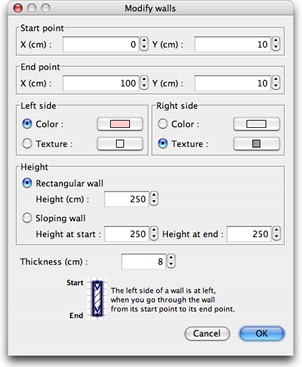
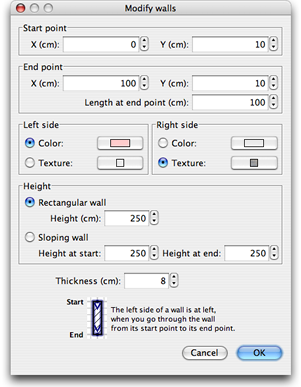
Updated wall dialog

Changed region(s): [[0.0, 0.0, 0.9867, 0.9891]]

diff --git a/SweetHome3D/src/com/eteks/sweethome3d/swing/resources/help/fr/editingWalls.html b/SweetHome3D/src/com/eteks/sweethome3d/swing/resources/help/fr/editingWalls.html
@@ -86,7 +86,7 @@
         <p>Un mur peut &ecirc;tre aussi modifi&eacute;  gr&acirc;ce &agrave; son panneau, en double-cliquant sur ce mur
           dans le plan du logement, ou en choisissant <i>Plan
           &gt; Modifier les murs...</i> apr&egrave;s l'avoir s&eacute;lectionn&eacute;.</p>
-        <p align="center"><img src="images/editingWalls.png" width="323" height="369"></p>
+        <p align="center"><img src="images/editingWalls.png" width="326" height="389"></p>
         <p>Dans le panneau du mur, vous pouvez modifier les coordonn&eacute;es de ses points de d&eacute;part et de fin,
           les couleurs ou les textures de ses c&ocirc;t&eacute;s gauche et droit, son &eacute;paisseur et sa hauteur.<br>
           Si c'est un mur inclin&eacute; d'un sous-pente, choisissez des hauteurs diff&eacute;rentes &agrave; ses points

diff --git a/SweetHome3D/src/com/eteks/sweethome3d/swing/resources/help/en/editingWalls.html b/SweetHome3D/src/com/eteks/sweethome3d/swing/resources/help/en/editingWalls.html
@@ -83,7 +83,7 @@
         <p>A wall may also be  edited thanks to its pane, by double-clicking on that wall in the home plan, or by choosing <i>Plan &gt; Modify
             walls...</i> after
           selecting it.</p>
-        <p align="center"><img src="images/editingWalls.png" width="302" height="367"></p>
+        <p align="center"><img src="images/editingWalls.png" width="301" height="387"></p>
         <p>In the wall pane, you may change&nbsp;the coordinates of its start and end points, the colors or the textures
           of its left and right sides, its thickness and its height.<br>
           If it's a sloping wall of a garret, choose different heights at its start and  end points, and ensure
